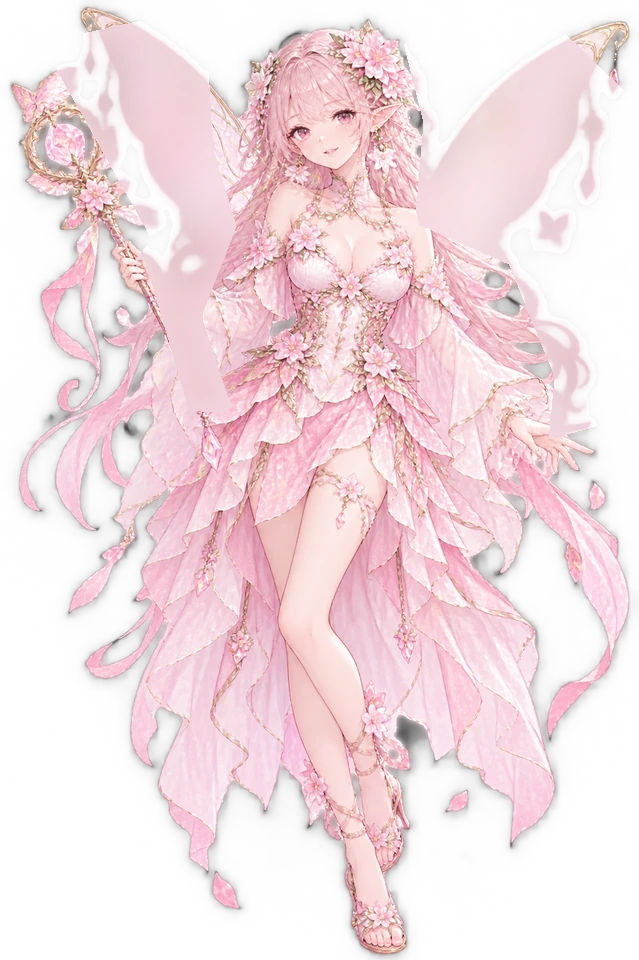
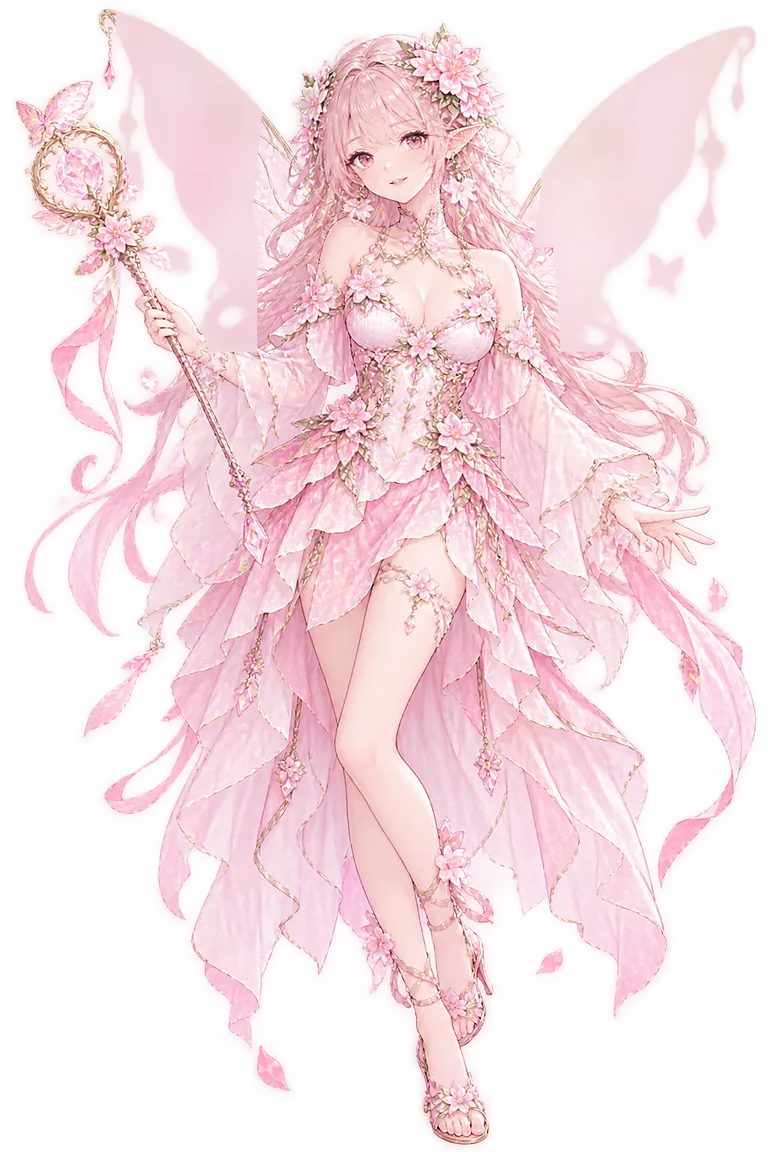
更新 2026-10-17 19:59

diff --git a/js/render.js b/js/render.js
@@ -3401,13 +3401,14 @@ export class Renderer {
       ctx.drawImage(art, -w / 2, -h * ANCHOR, w, h);
     }
     if (wingArt) {
-      const pivotY = -h * ANCHOR + h * 0.245;
+      // 翅根归一化位置跟着 m10551 的新立绘（1024×1536）重新量的：左 (0.420,0.235) / 右 (0.630,0.235)
+      const pivotY = -h * ANCHOR + h * 0.235;
       const flap = Math.sin(this.time * 5.6);
       // ±6.3°：翅膀很大，角度再大就会露出手背那条"让开的缝"（缝里是身体层的粉色残影，
       // 幅度小的时候它读作运动模糊，幅度大就读作糊了）
       const ang = flap * 0.11;
       for (const side of [0, 1]) {
-        const fx = side ? 0.586 : 0.450;
+        const fx = side ? 0.630 : 0.420;
         const pieceX = -w / 2 + fx * w;
         const pieceLeft = -w / 2 + (side ? 0.5 : 0) * w;
         const bakedW = this._heroBake(`fairy:wing${side}`, wingArt, hBase,
@@ -3422,9 +3423,9 @@ export class Renderer {
         // 拖影：同一片翅膀按"上一时刻的角度"再贴一次，把让开的那条缝用翅膀自己的像素补上
         // （比露粉色残影更像真扇动，代价只是多一次小 blit）
         ctx.save();
-        ctx.globalAlpha = 0.42;
+        ctx.globalAlpha = 0.32;
         ctx.translate(pieceX, pivotY);
-        ctx.rotate(rot * 1.55);
+        ctx.rotate(rot * 1.40);
         ctx.translate(-pieceX, -pivotY);
         ctx.drawImage(bakedW.cv, dx, dy, pw, ph);
         ctx.restore();
@@ -3505,9 +3506,9 @@ export class Renderer {
    * 全程只有加色贴图 + 小圆点，每帧 5~7 次 drawImage，不新建渐变。
    */
   _heroWandGlow(ctx, h, swing, charge) {
-    const RATIO = 639 / 960; // 立绘宽高比
-    const wx = (0.105 - 0.5) * h * RATIO;
-    const wy = h * (0.175 - 0.955);
+    const RATIO = 1024 / 1536; // 立绘宽高比（用户 m10551 换的 1024×1536 新图）
+    const wx = (0.100 - 0.5) * h * RATIO;   // 新图杖头中心 ≈ (0.100, 0.145)
+    const wy = h * (0.145 - 0.955);
     // 蓄力和出手都推亮度；再加一条 6.4Hz 的微弱脉动，看起来像"活着的光"
     const lvl = Math.min(1, Math.max(charge, swing));
     const pulse = 0.5 + 0.5 * Math.sin(this.time * 6.4);

diff --git a/js/main.js b/js/main.js
@@ -430,9 +430,9 @@ function fontTask() {
 const PACK_BYTES = {
   './fonts/smiley-sans.woff2': 187392,
   './img/hero-knight.webp': 162058,
-  './img/hero-fairy.webp': 267780,
-  './img/hero-fairy-body.webp': 250302,
-  './img/hero-fairy-wings.webp': 51406,
+  './img/hero-fairy.webp': 476636,
+  './img/hero-fairy-body.webp': 334940,
+  './img/hero-fairy-wings.webp': 53746,
   './img/portrait-hero.png': 41261,
   './img/portrait-cmd.png': 37167,
   './img/portrait-dave.png': 47723,
@@ -1431,6 +1431,18 @@ if ('serviceWorker' in navigator && location.protocol !== 'file:') {
   const isLocal = /^(localhost|127\.0\.0\.1|\[::1\])$/.test(location.hostname);
   if (!isLocal) {
     window.addEventListener('load', () => {
+      // 【用户 m10551】"换成勇者还是有蝴蝶 / 这不还是糊吗" —— 查下来是**浏览器还在跑旧代码**：
+      // 部署时 sw 换了 CACHE 名、也 skipWaiting 了，但已经打开的页面不会自己换，
+      // 用户看到的仍是上一版。这里监听 controllerchange，新版一接管就自动刷一次。
+      // 只在"本来就有 sw 在管"的时候刷（首次注册也会触发 controllerchange，
+      // 那时候刷会白闪一下，所以用 hadController 卡住）。
+      const hadController = !!navigator.serviceWorker.controller;
+      let reloaded = false;
+      navigator.serviceWorker.addEventListener('controllerchange', () => {
+        if (!hadController || reloaded) return;
+        reloaded = true;
+        location.reload();
+      });
       navigator.serviceWorker.register('./sw.js').catch(() => {});
     });
   }

diff --git a/index.html b/index.html
@@ -1,7 +1,7 @@
 <!DOCTYPE html>
 <html lang="zh-CN">
 <head>
-<!-- build: 2026-10-17 19:37:40 -->
+<!-- build: 2026-10-17 19:59:47 -->
 <meta charset="UTF-8" />
 <title>守桥 · 丧尸围城</title>
 
@@ -110,7 +110,7 @@
          版本号由 deploy.ps1 每次部署自动 +1（别手改，改了会被下次部署覆盖） -->
     <div class="foot-right">
       <button class="log-btn" id="logBtn" type="button">更 新 说 明</button>
-      <div class="build" id="buildLabel">v1.0.45</div>
+      <div class="build" id="buildLabel">v1.0.46</div>
     </div>
   </div>
 

diff --git a/sw.js b/sw.js
@@ -13,7 +13,7 @@
 //       离线时外壳还在、能打开游戏；图片没缓存上顶多暂时缺图（渲染器有手绘兜底）。
 // ============================================================
 
-const CACHE = 'hold-the-bridge-v1.0.45';
+const CACHE = 'hold-the-bridge-v1.0.46';
 
 // 只预缓存"外壳"：打开游戏必需的那几样，体积小、改动频繁
 const SHELL = [
